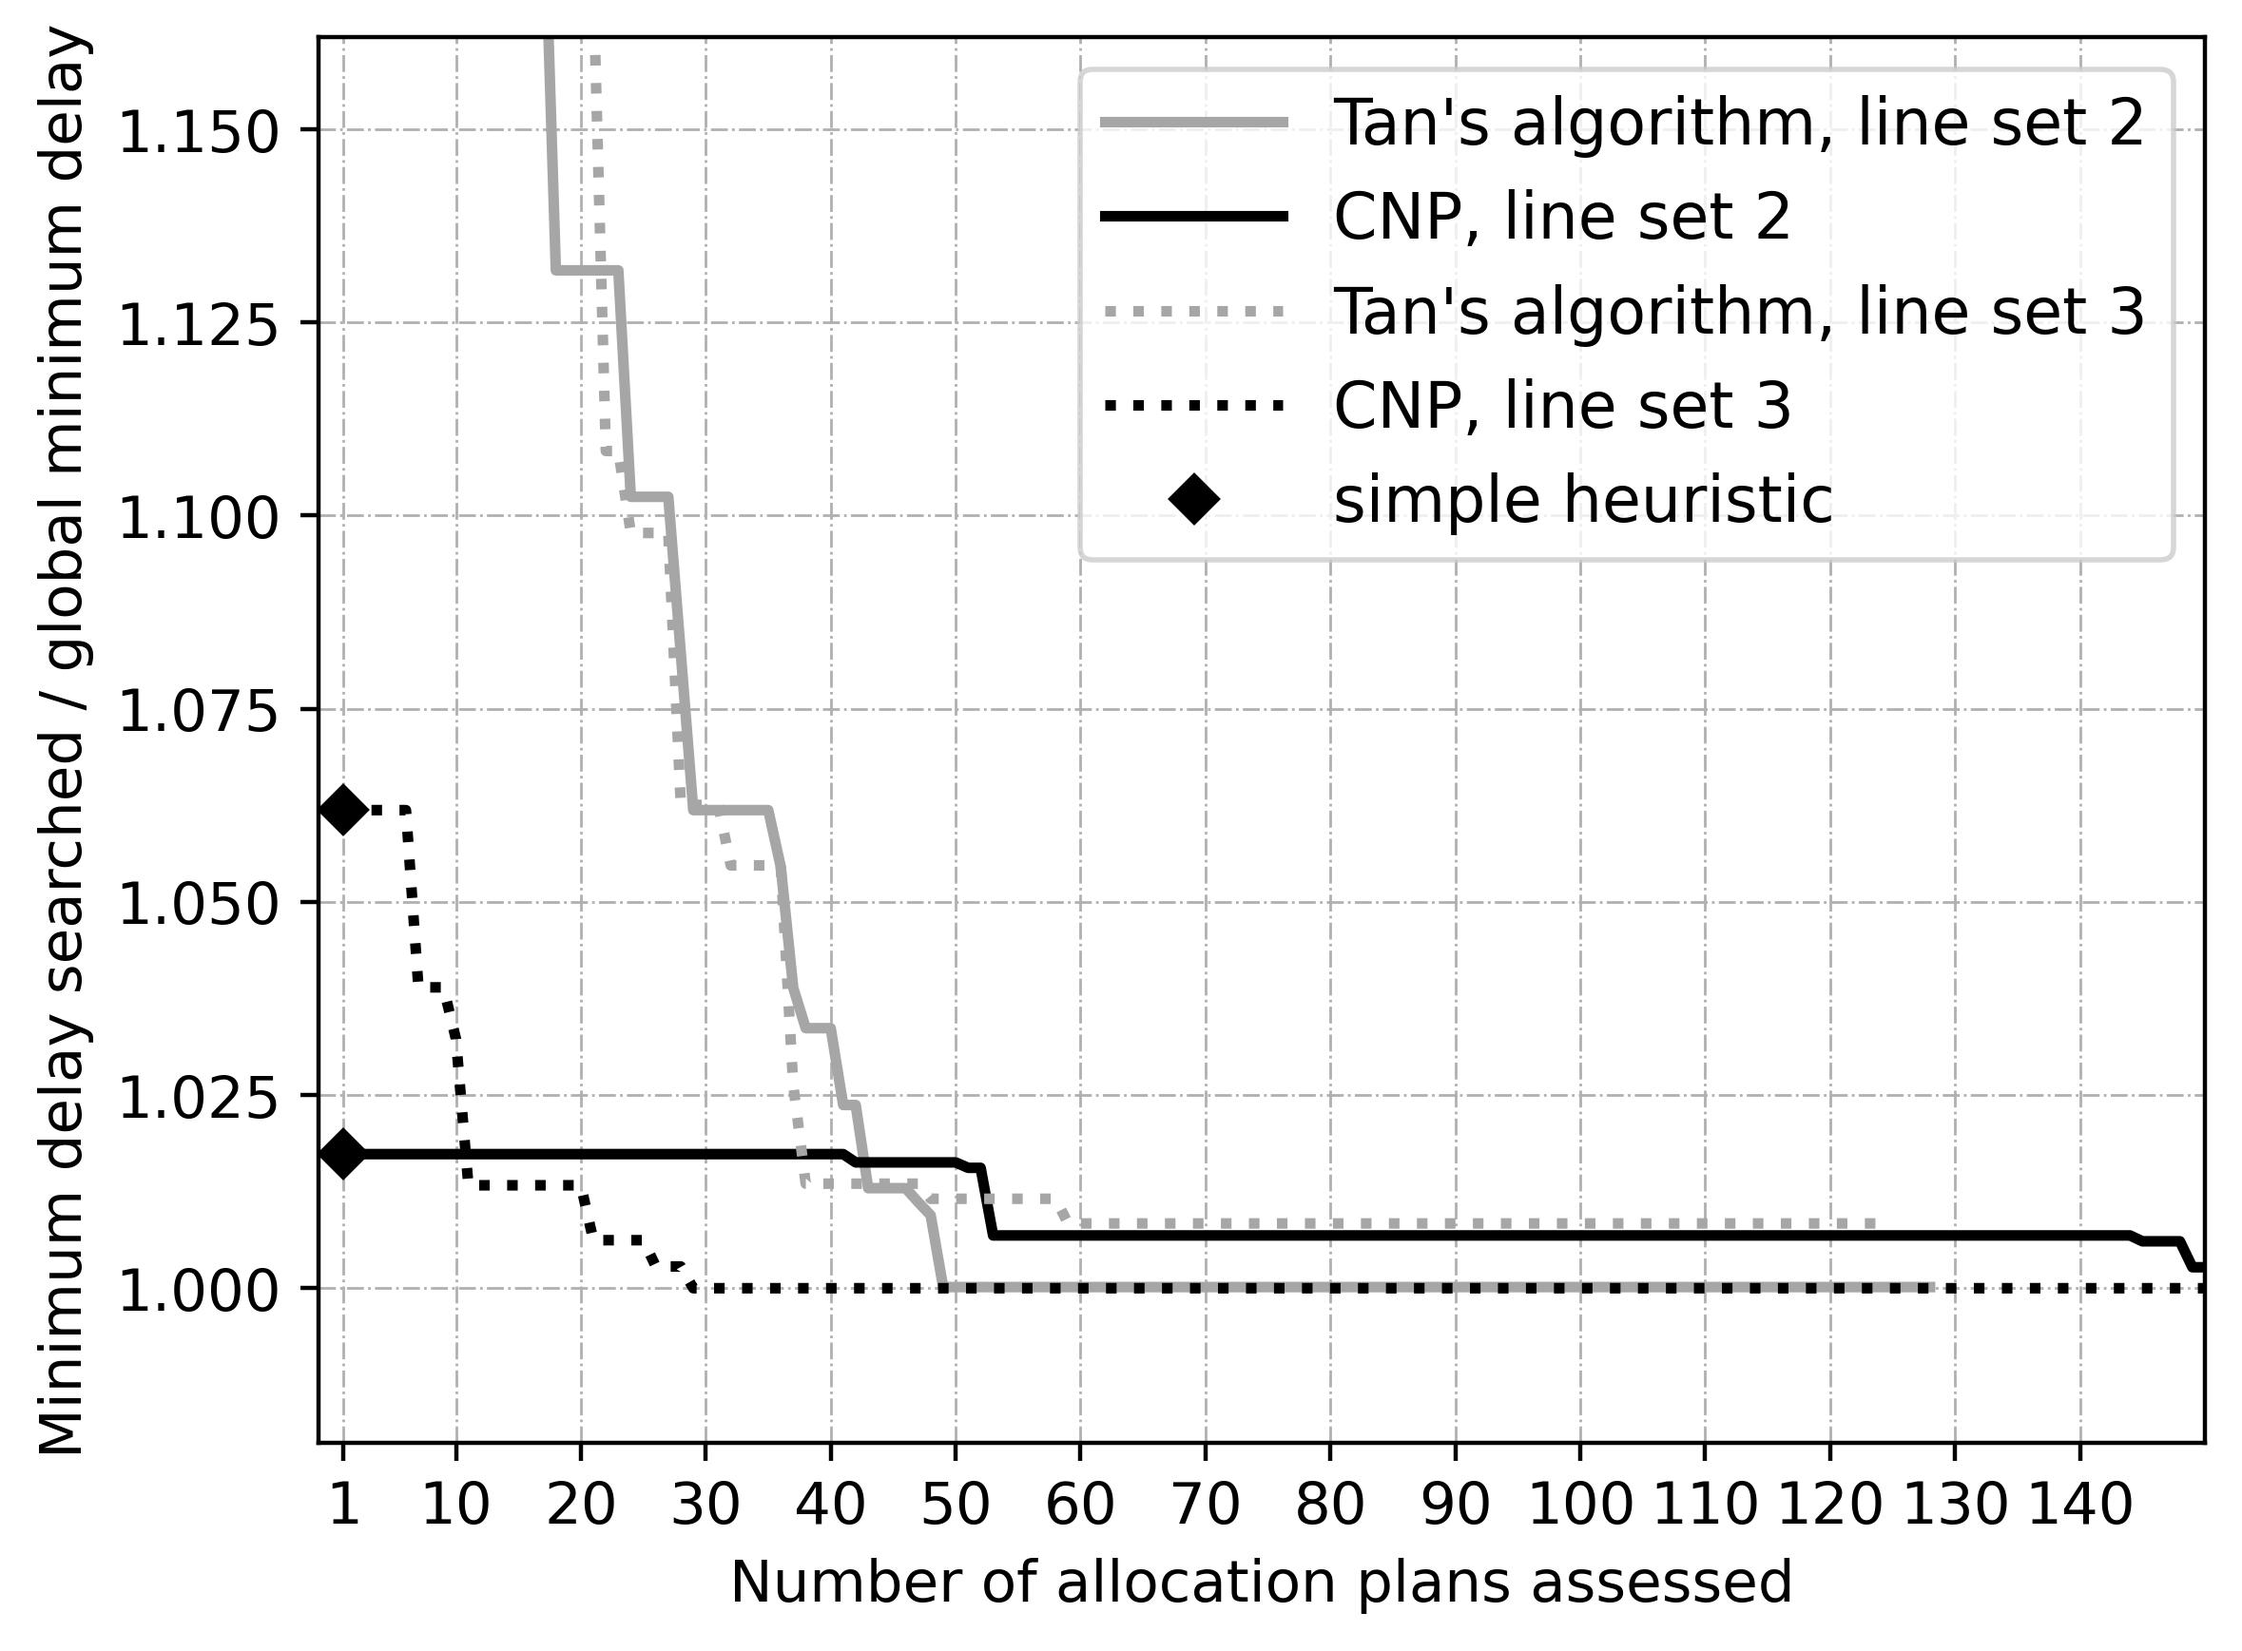
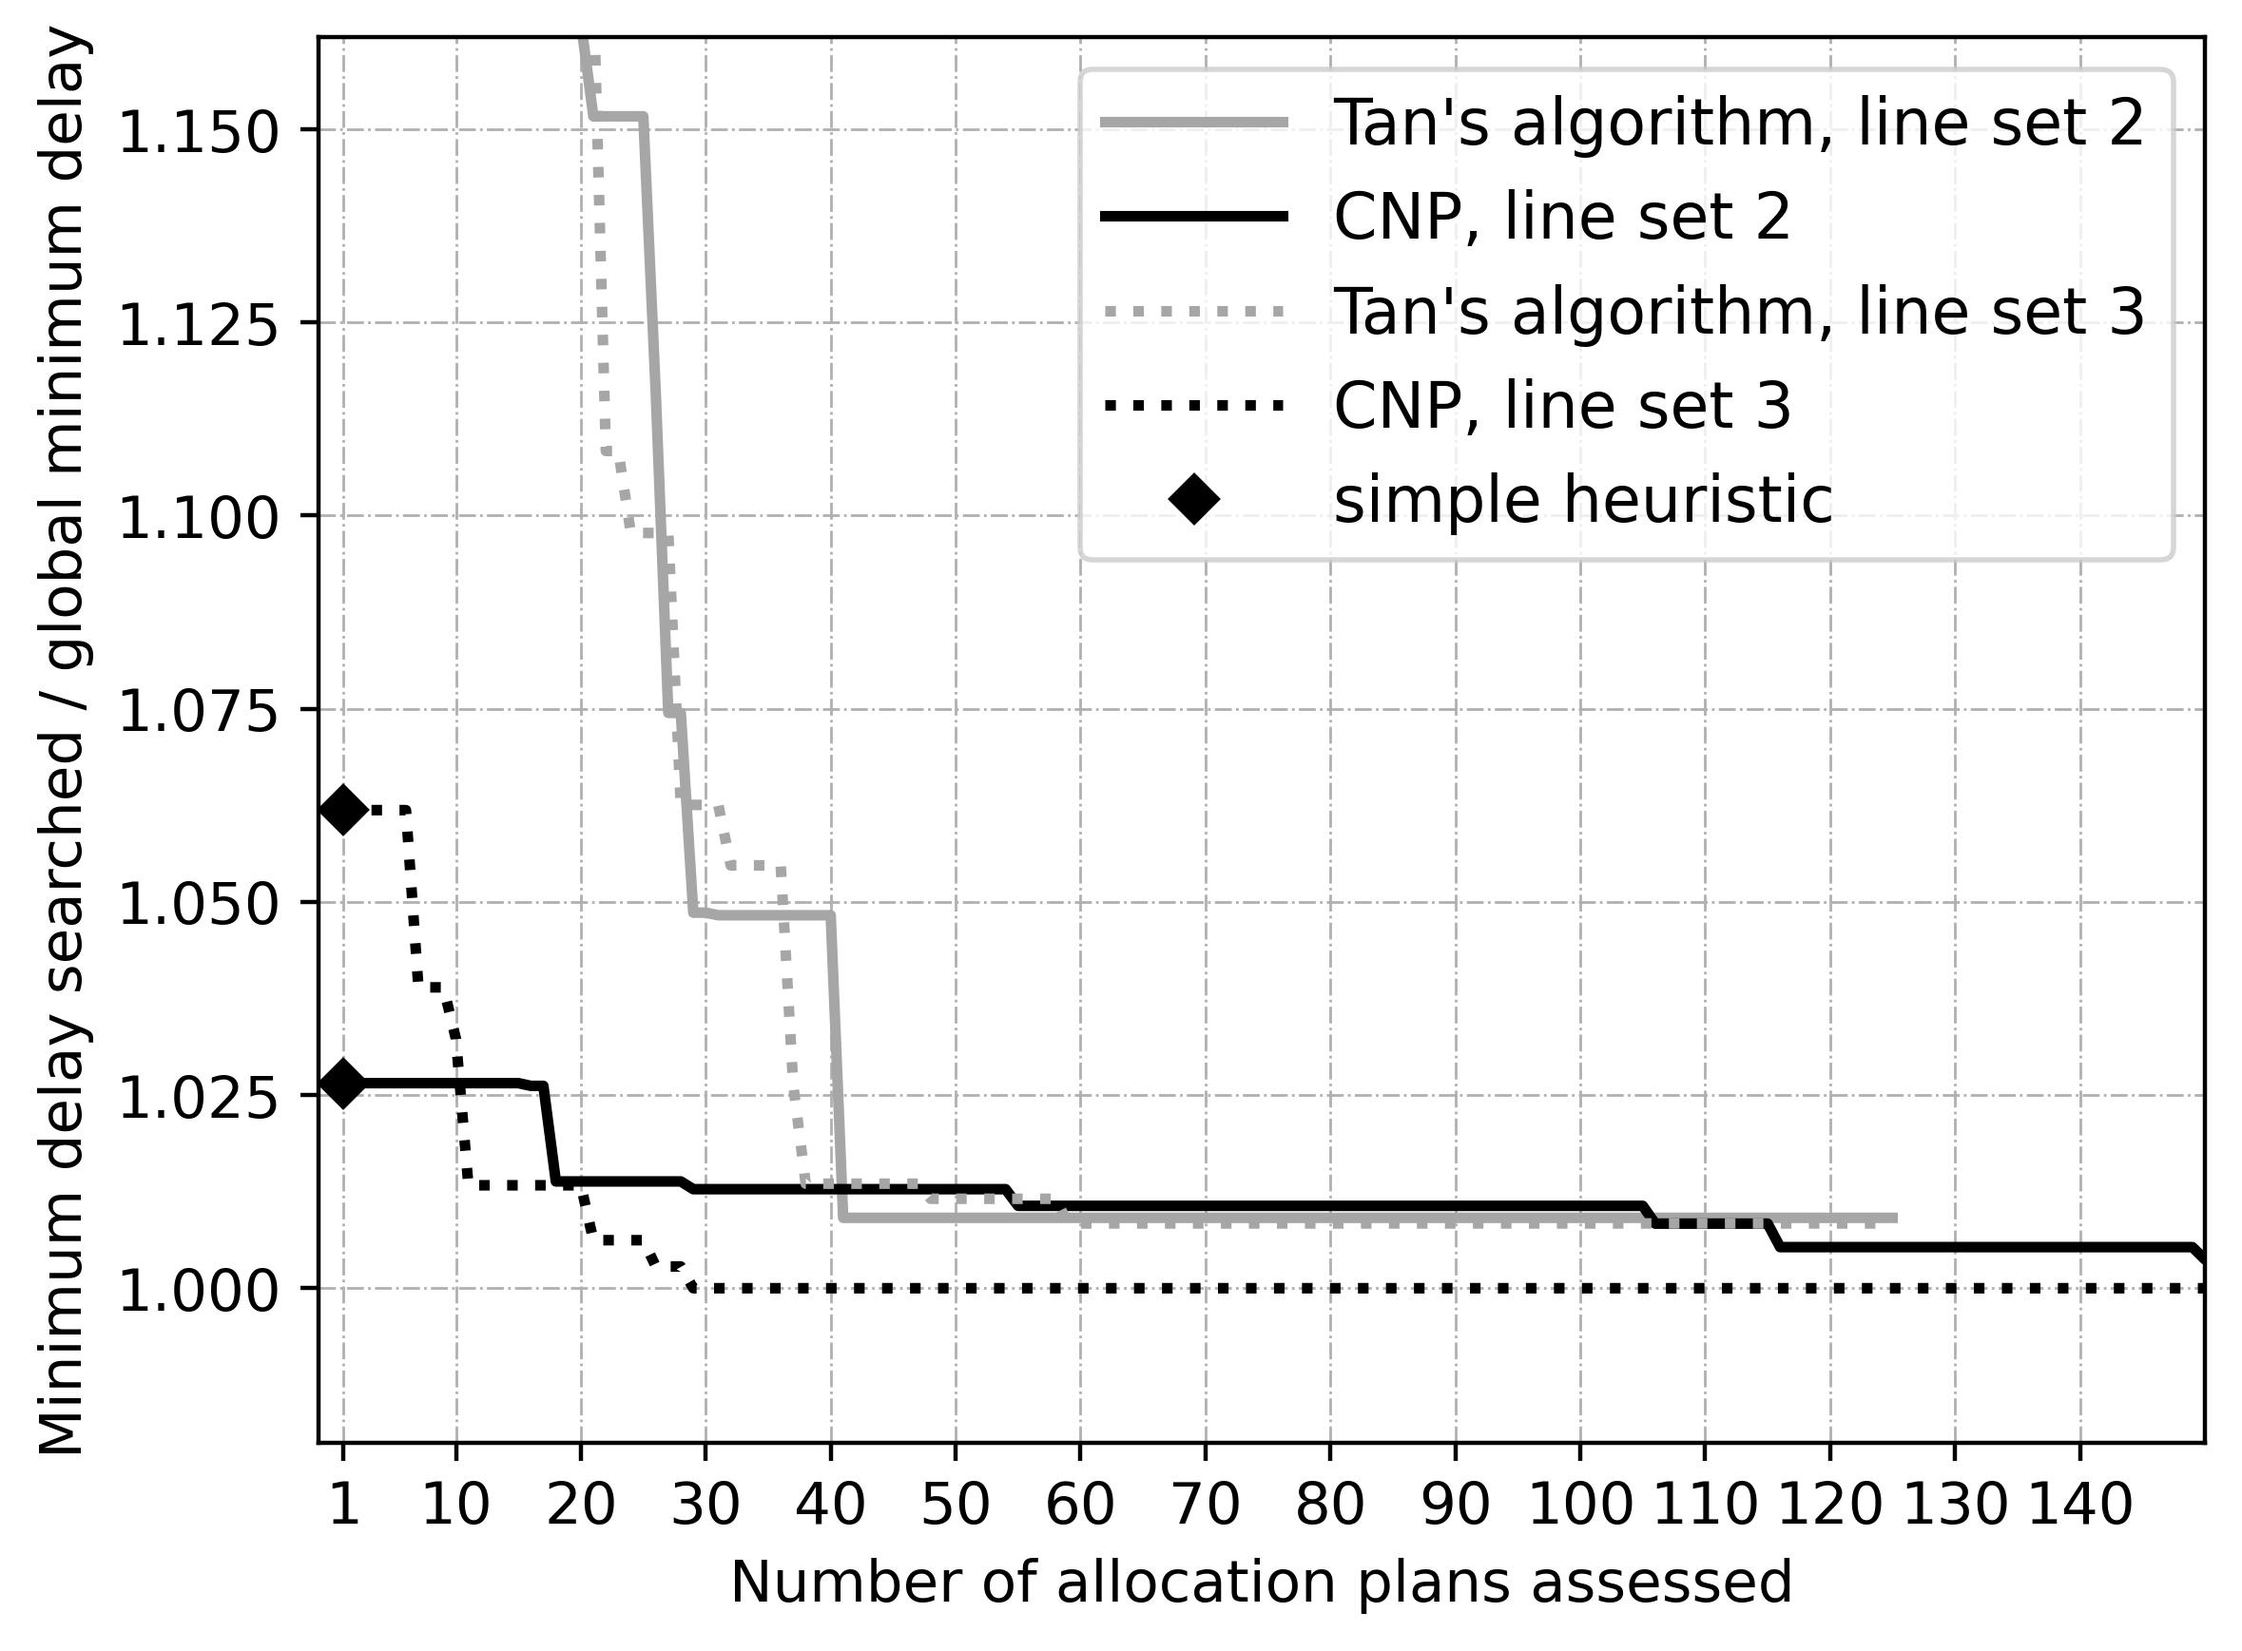
added more additional results

Changed region(s): [[0.1238, 0.6528, 0.9907, 0.8083], [0.2167, 0.0311, 0.3405, 0.5285], [0.3096, 0.4974, 0.3715, 0.6218]]

diff --git a/line_profile.py b/line_profile.py
@@ -288,10 +288,13 @@ def manual_add_to_db():
     mean_times_set_0 = [22.447, 25.108, 25.178, 26.020, 27.055,
                         24.030, 23.789, 25.775, 25.206, 24.334, 26.085, 24.974]
 
-    mean_flow_set_2 = [20.011, 18.478, 16.756, 15.340,
-                       10.829, 9.596, 8.618, 7.987, 7.964, 7.106, 6.856, 5.452]
-    mean_times_set_2 = [12.870, 18.496, 19.621, 21.105, 24.416,
-                        25.144, 25.525, 25.680, 28.935, 30.396, 30.793, 37.014]
+    # mean_flow_set_2 = [20.011, 18.478, 16.756, 15.340,
+    #                    10.829, 9.596, 8.618, 7.987, 7.964, 7.106, 6.856, 5.452]
+    # mean_times_set_2 = [12.870, 18.496, 19.621, 21.105, 24.416,
+    #                     25.144, 25.525, 25.680, 28.935, 30.396, 30.793, 37.014]
+    
+    mean_flow_set_2 = [18.478, 7.106, 7.964, 9.596, 6.856, 16.756, 15.34, 7.987, 10.829, 20.011, 5.452, 8.618]
+    mean_times_set_2 = [18.496, 30.396, 28.935, 25.144, 30.793, 19.621, 21.105, 25.68, 24.416, 12.87, 37.014, 25.525]
 
     # avg = sum(mean_times_set_2) / len(mean_times_set_2)
     # beta = 0.1

diff --git a/README.md b/README.md
@@ -2,7 +2,7 @@
 
 This repository contains the simulation model and the berth allocation algorithms used in a paper titled "Efficient Heuristic Methods for Berth Allocation at Multi-line, Multi-berth Curbside Bus Stops", which is currently being under review by "Transportation Research Part C".
 
-## Installation
+# Installation
 
 The required packages are listed in `requirements.txt`. Please use the package manager pip to install:
 
@@ -12,7 +12,7 @@ pip install -r requirements.txt
 
 Moreover, please install `mongodb` following: <https://www.mongodb.com/docs/manual/installation/>.
 
-## Usage
+# Usage
 The repository uses `mongodb` to store the numerical experiments results, and use the `sacred` package to manage the experiment results. The basic usage flow is as follows:
 
 1. In `line_profile.py`, the bus line datasets used in the paper can be generated by calling the function `manual_add_to_db`. The datasets will then be added into `mongodb` database. By default, the line dataset will be stored in `line_profile` collection of `inputs` database.
@@ -20,28 +20,28 @@ The repository uses `mongodb` to store the numerical experiments results, and us
 3. Given all the enumerated berth allocations simulated in step 2, you can run the `algo_main_for_enum.py` script, wherein you can specify the algorithm type (CNP method or Tan's method) and corresponding parameters. The algorithm will automatically retrieve the simulation results stored in the database. If no simulated berth allocation plan is found in the database, the simulation will be conducted immediately to evaluate the allocation plan. The algorithm results will be stored in `runs` collection of `cx_res` database, where `x` is the berth number.
 4. For near- and far-side stops, you can run `signal_main_enumerate.py` script. In addition to the isolated scenario, you can also specify the cycle length, buffer size and green ratio for near- and far-side stops.
 
-## Feel free to ask me if you have any questions! :blush:
+# Feel free to ask me if you have any questions! :blush:
 
 My email address is: <shenminyu@swufe.edu.cn>
 
-## Additional results on other bus line sets
-**The following  provides experimental results of the proposed CNP algorithm for more line sets. Note that for line set 2, the mean dwell times and bus arrival rate (inverse of bus headway) are negatively correlated.**
+# Additional results
+**The following  provides experimental results of the proposed CNP algorithm for more line sets. The bus arrival rates and mean dwell times for each line in both sets were randomly generated using the Dirichlet distribution, following the same method used to generate line sets 0 and 1 in the paper.**
 
 ### Line set information
 | Set | Line No. | $\lambda_l$ (buses/hr) | $\mu_l$ (seconds) | Set | Line No. | $\lambda_l$ (buses/hr) | $\mu_l$ (seconds) |
 |-----|-----|-----|-----|-----|-----|-----|-----|
-| 2 | 1 | 20.01 | 12.87 | 3 | 1 | 17.79 | 9.10 | 
-| 2 | 2 | 18.48 | 18.50 | 3 | 2 | 14.77 | 24.89 | 
-| 2 | 3 | 16.76 | 19.62 | 3 | 3 | 7.69 | 25.42 | 
-| 2 | 4 | 15.34 | 21.11 | 3 | 4 | 10.43 | 32.49 | 
-| 2 | 5 | 10.83 | 24.42 | 3 | 5 | 16.14 | 42.57 | 
-| 2 | 6 | 9.60 | 25.14 |  3 | 6 | 6.60 | 17.37 | 
-| 2 | 7 | 8.62 | 25.53 |  3 | 7 | 19.27 | 15.91 | 
+| 2 | 1 | 18.48 | 18.50 | 3 | 1 | 17.79 | 9.10 | 
+| 2 | 2 | 7.11 | 30.40 | 3 | 2 | 14.77 | 24.89 | 
+| 2 | 3 | 7.96 | 28.94 | 3 | 3 | 7.69 | 25.42 | 
+| 2 | 4 | 9.60 | 25.14 | 3 | 4 | 10.43 | 32.49 | 
+| 2 | 5 | 6.86 | 30.79 | 3 | 5 | 16.14 | 42.57 | 
+| 2 | 6 | 16.76 | 19.62 |  3 | 6 | 6.60 | 17.37 | 
+| 2 | 7 | 15.34 | 21.11 |  3 | 7 | 19.27 | 15.91 | 
 | 2 | 8 | 7.99 | 25.68 |  3 | 8 | 6.84 | 30.34 | 
-| 2 | 9 | 7.96 | 28.94 |  3 | 9 | 9.24 | 25.64 | 
-| 2 | 10 | 7.11 | 30.40 |  3 | 10 | 8.30 | 19.33 | 
-| 2 | 11 | 6.86 | 30.79 |  3 | 11 | 5.25 | 33.08 | 
-| 2 | 12 | 5.45 | 37.01 |  3 | 12 | 7.67 | 23.86 | 
+| 2 | 9 | 10.83 | 24.42 |  3 | 9 | 9.24 | 25.64 | 
+| 2 | 10 | 20.01 | 12.87 |  3 | 10 | 8.30 | 19.33 | 
+| 2 | 11 | 5.45 | 37.01 |  3 | 11 | 5.25 | 33.08 | 
+| 2 | 12 | 8.62 | 25.53 |  3 | 12 | 7.67 | 23.86 | 
 
 ### Results
 
@@ -58,3 +58,16 @@ The figures are similar to the ones shown in the paper. The description is thus 
 | LO rule, near-side stop | FO rule, near-side stop|
 | ----------------------------------- | ----------------------------------- |
 | ![cat](figs/c%3D2_LO-Out_near.jpg) | ![dog](figs/c%3D2_FO-Free_near.jpg) |
+
+
+### Results under a linear positive correlation between bus dwell times and bus arrival headways
+
+The following figures present evaluation results when we modified the surrogate model such that a bus's dwell time is dynamically determined by its arrival headway, multiplied by a line-specific constant, which is the product of passenger arrival rate and unit boarding time per passenger. The line set 2 is used here. The line-specific constant is essentially the bus line's traffic intensity (the product of bus flow and mean dwell time). We can see that the very similar results like Figs. 4(a)-(i) in the paper are obtained, indicating the effectiveness of our heuristic methods. (Similar results are obtained for near- and far-side stops and thus omitted here.)
+
+| NO rule, mid-block stop | LO rule, mid-block stop|
+| ----------------------------------- | ----------------------------------- |
+| ![cat](figs/c%3D2_FIFO_iso_corr.jpg) | ![dog](figs/c%3D2_LO-Out_iso_corr.jpg) |
+
+| FO rule, mid-block stop |
+| ----------------------------------- |
+| <img width=380 src=figs/c%3D2_FO-Free_iso_corr.jpg/> |
